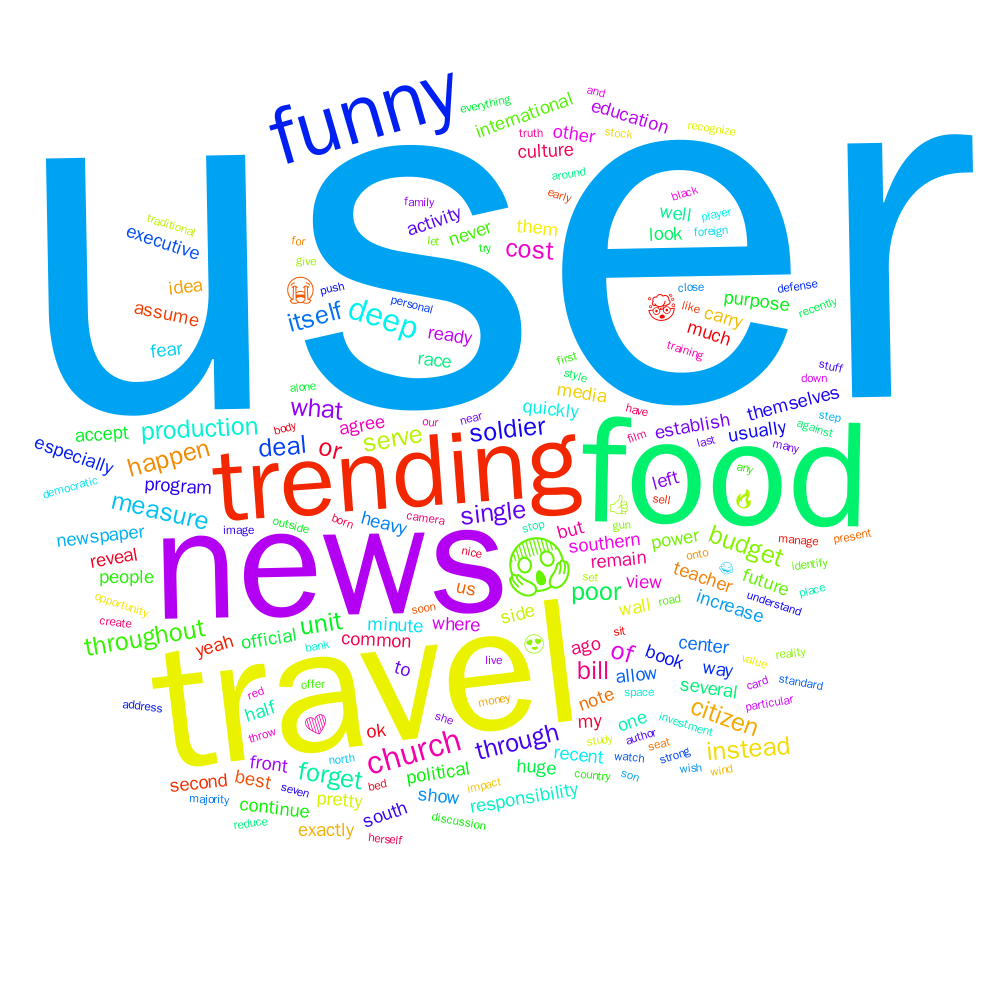
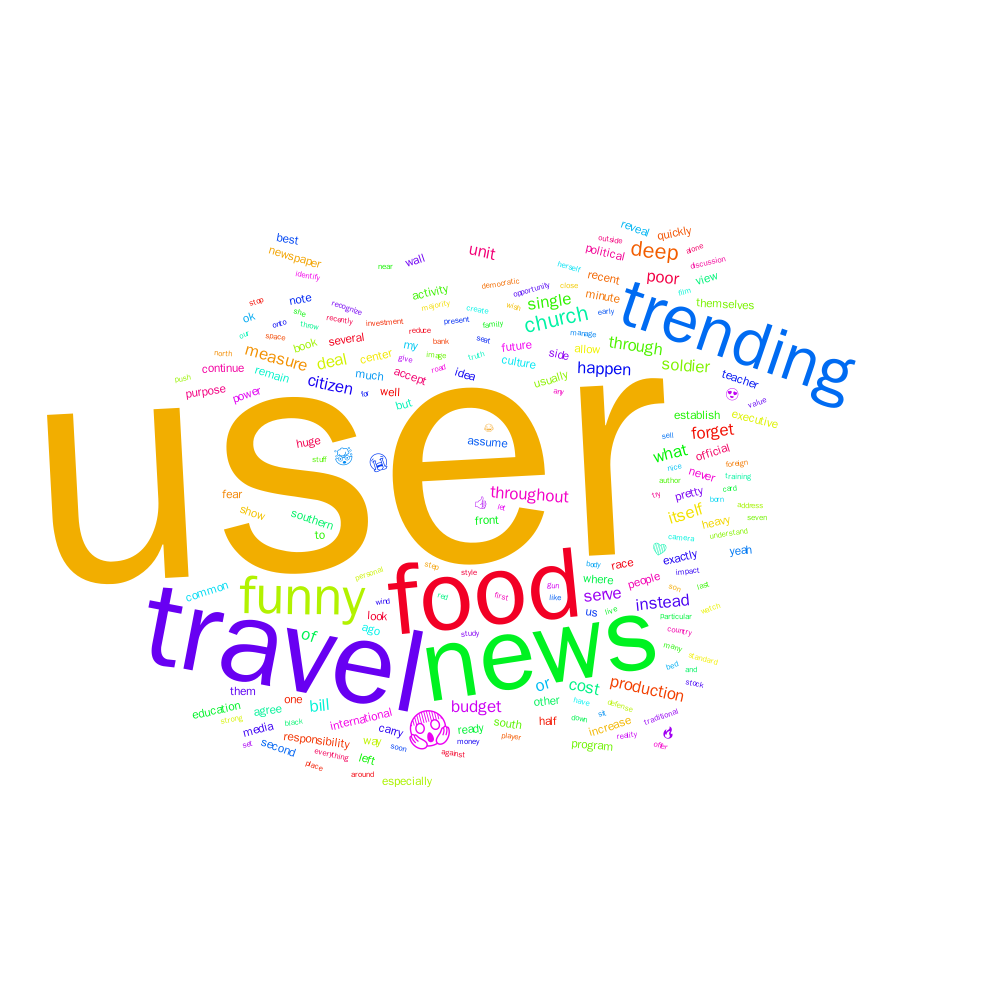
Comments added

Changed region(s): [[0.031, 0.062, 0.992, 0.868]]

diff --git a/MCO2/MCO2_2_Ruby.rb b/MCO2/MCO2_2_Ruby.rb
@@ -17,9 +17,14 @@ monthly_data = Hash.new(0)
 total_words = 0
 unique_words = 0
 
+# For the stop words
+# note how $ makes a variable a global variable
+# within ruby, only local scopes are accessible within functions
 $stop_words = {"a"=>0, "an"=>0, "the"=>0, "and"=>0, "but"=>0, "or"=>0, "in"=>0, "on"=>0, "at"=>0, "with"=>0}
 $stops_total = 0
 
+
+# To update stop word counter
 def find_stops(word)
   if $stop_words.key?(word)
     $stop_words[word] += 1
@@ -29,10 +34,15 @@ end
 
 # Read CSV file if it exists
   if File.exist?(filename)
+    # Uses the csv folder to read each row
+    # headers: true assigns it to a hash
     CSV.foreach(filename, headers: true) do |row|
-      # Tweet text
+      # Note how ifs are used, this is to only read the relevant tables
+
       if row['text']
         text = row['text']
+        # Text is set to downcase to read all letters the same regardless of letter case
+        # .split will split it to each word
         words = text.downcase.split
         words.each do |word|
           word_count[word] += 1
@@ -41,6 +51,7 @@ end
           find_stops(word);
     
           word.each_char do |char|
+            # That regex is used to check if it is alphanumeric
             if char =~ /\A\p{Alnum}+\z/
               char_count[char] += 1
             else
@@ -53,8 +64,10 @@ end
       # For month counting
       if row['date_created']
         begin
+          # uses datetime library
+          # makes the date a DateTime object
           date = DateTime.strptime(row['date_created'], '%Y-%m-%d %H:%M:%S')
-          # for getting month in word form
+          # to get the month in the DateTime
           month = date.strftime('%B')
           monthly_data[month] += 1
         end
@@ -70,6 +83,8 @@ end
   puts "Unique words: #{unique_words}"
 
   puts "\nTop 20 most frequent words:"
+
+  #.first will be used to easily limit
   word_count.sort_by { |word, count| -count }.first(20).each do |word, count|
     puts "#{word}: #{count}"
   end
@@ -83,7 +98,6 @@ end
   $stop_words.each do |word, count|
     puts "#{word}: #{count}"
   end
-
 
   puts "\nMonth Tweets:"
   monthly_data.sort_by { |month, count| -count }.each do |month, count|
@@ -104,6 +118,18 @@ end
   word_count.sort_by { |word, count| -count }.each do |word, count|
     puts "#{word}: #{count}" 
   end
+
+
+# GRAPH MAKINGS
+# Uses the quickchart.io to create the images
+# It allows for easy creation of images without needing to do any downloads or installs
+
+# Ruby's chart creation is limited especially with word clouds
+# Other sources such as magic_cloud need the rmagick and imagemagick 
+# which will also need installs within the computer and have limited documentation
+# to limit potential machine-specific errors, online apis were used instead
+
+# by using Ruby's json library, requests can be easily sent
 
 wordcloud_setup = {
   format: "png",
